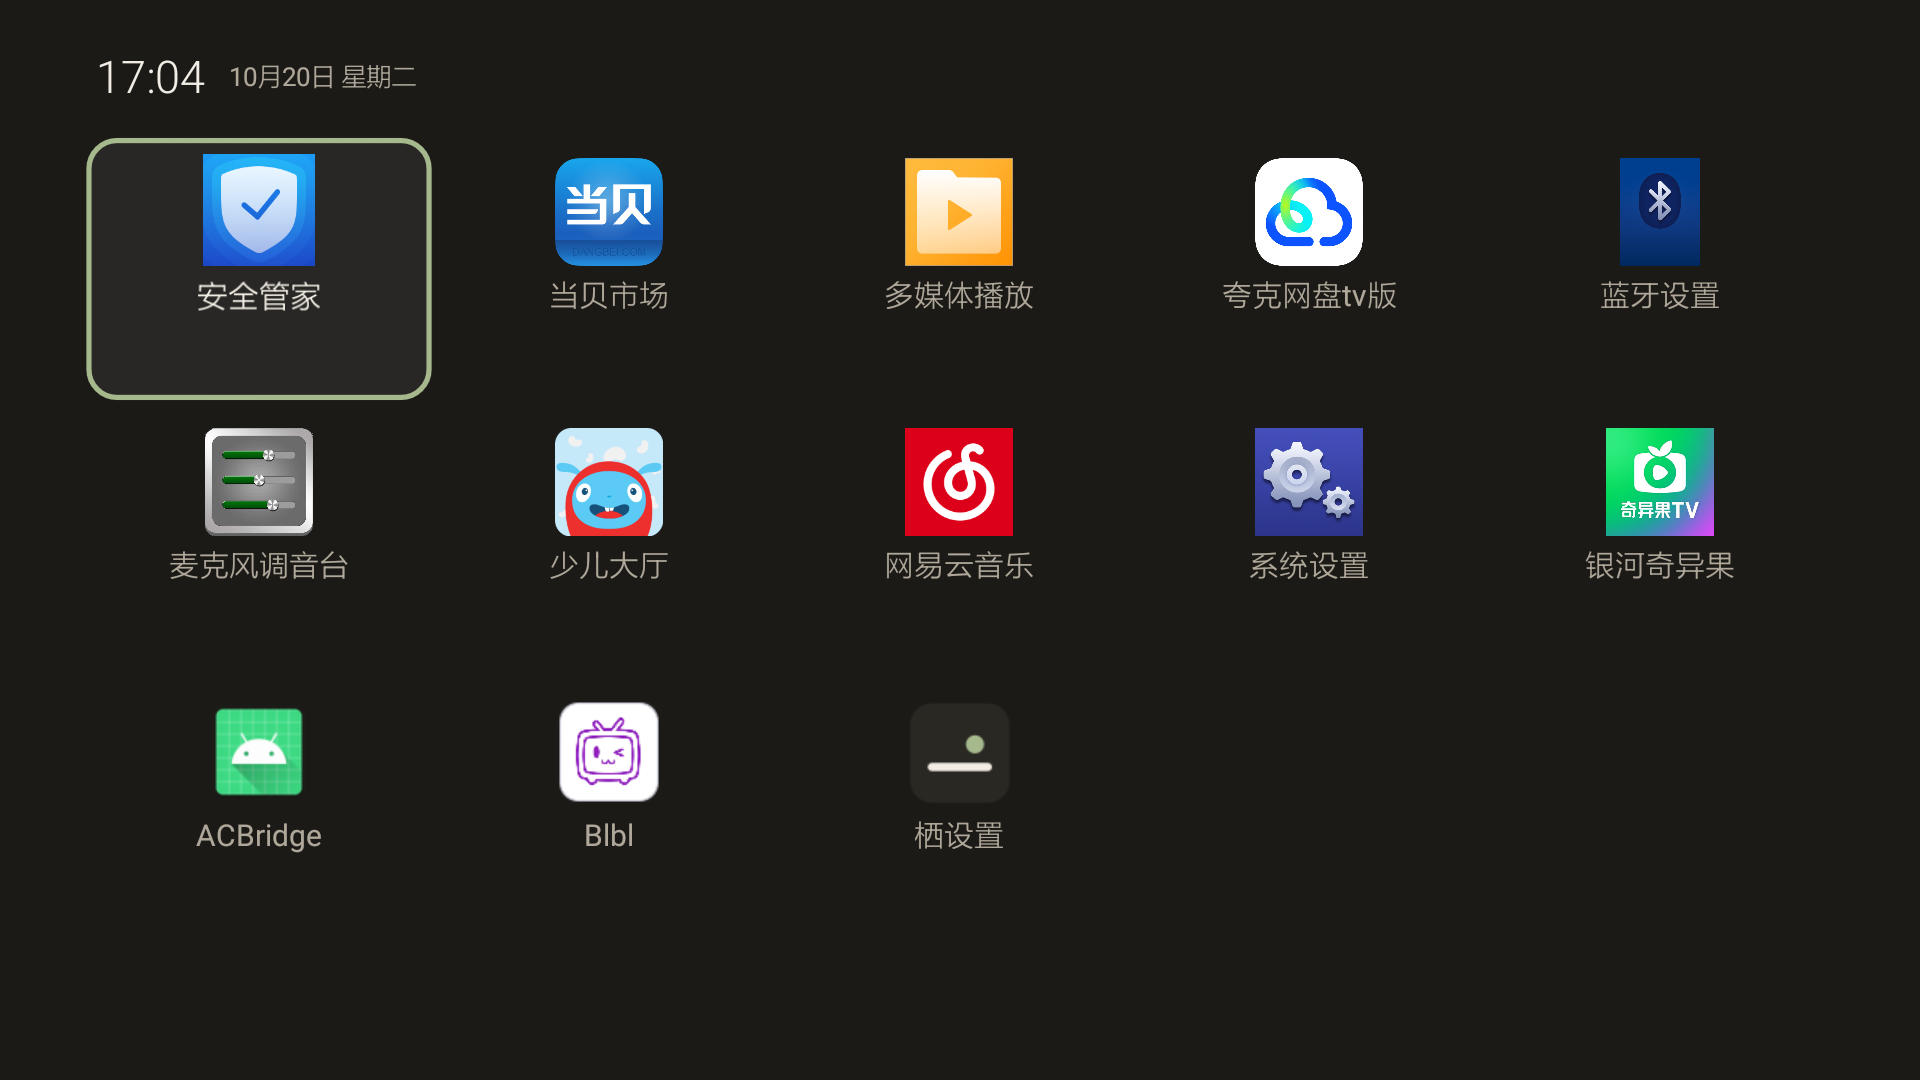
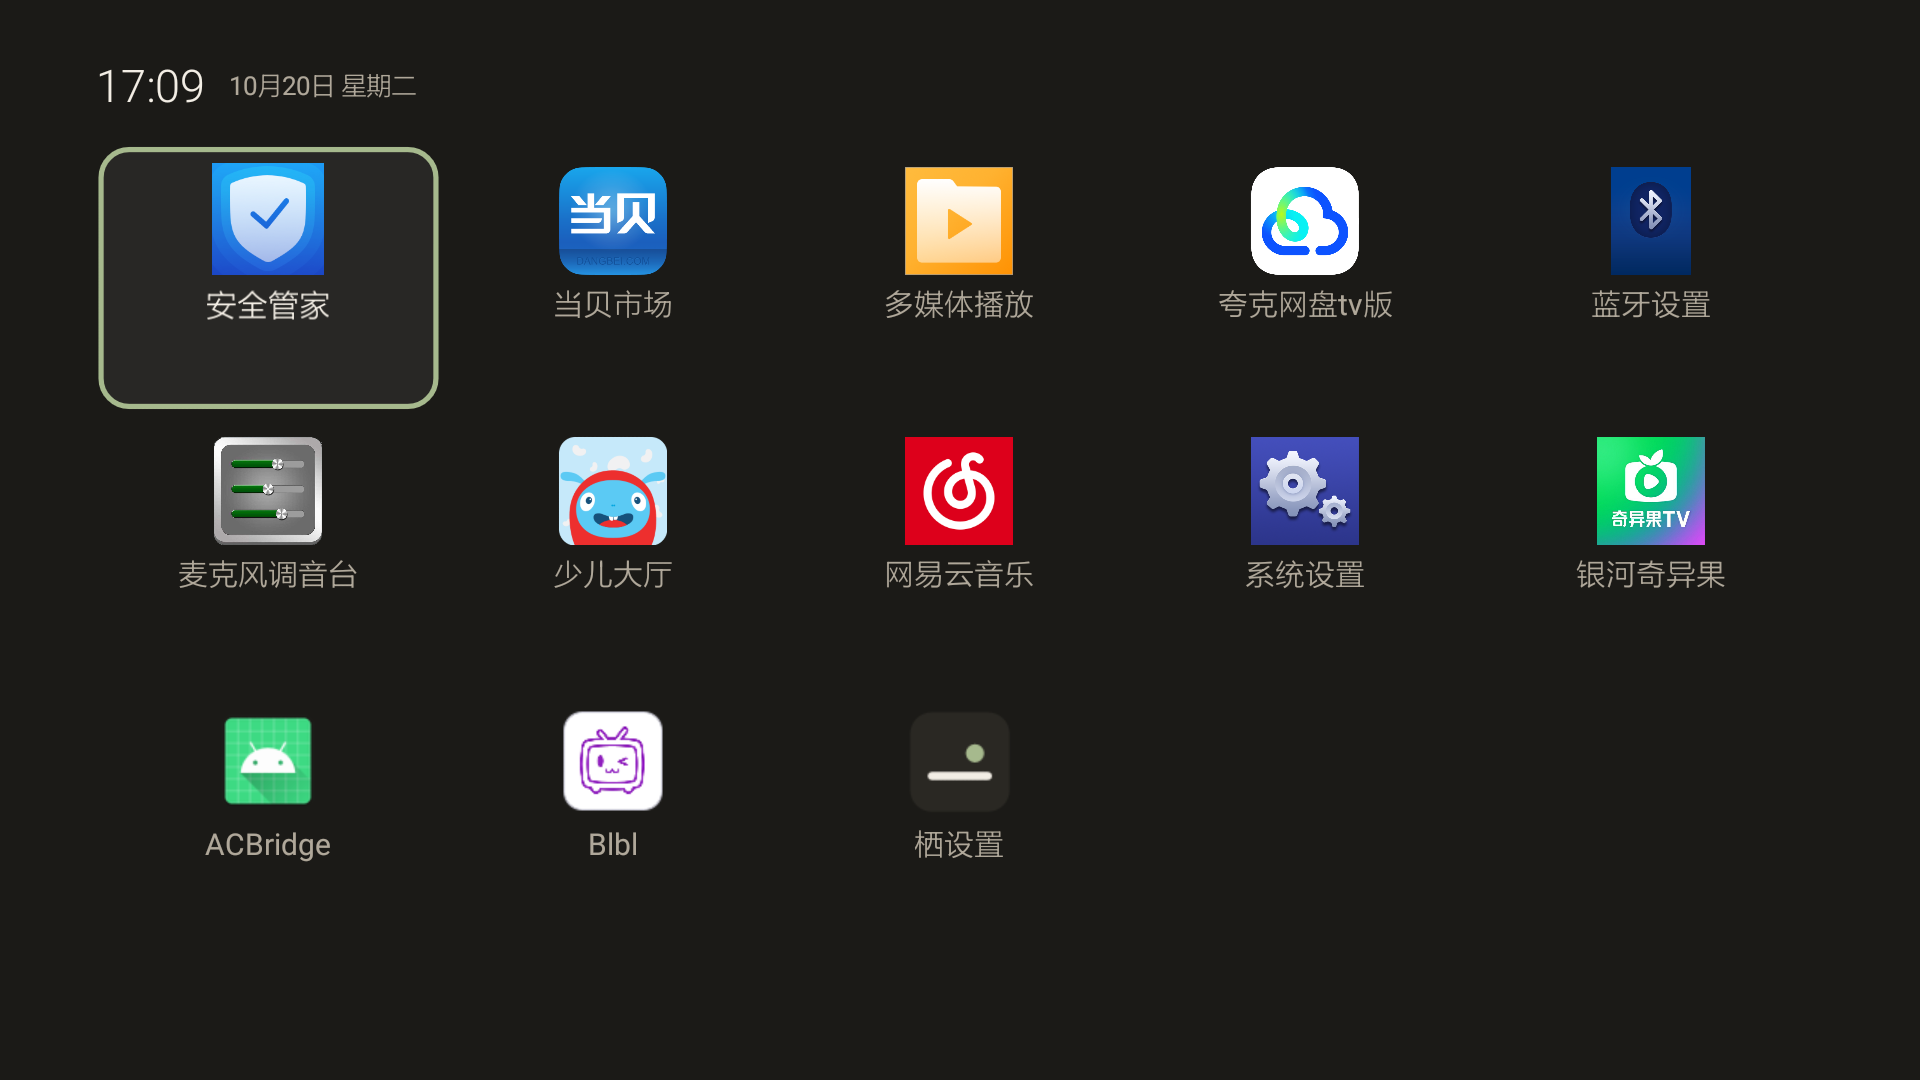
Keep the grid and quick settings inside the 5% safe area

diff --git a/src/io/github/duanechen520/perch/MainActivity.java b/src/io/github/duanechen520/perch/MainActivity.java
@@ -374,7 +374,7 @@ public class MainActivity extends Activity {
         LinearLayout topBar = new LinearLayout(this);
         topBar.setOrientation(LinearLayout.HORIZONTAL);
         topBar.setGravity(Gravity.CENTER_VERTICAL);
-        topBar.setPadding(dp(64), dp(34), dp(64), dp(4));
+        topBar.setPadding(dp(64), dp(40), dp(64), dp(4));
         fullLayer.addView(topBar, new LinearLayout.LayoutParams(
                 ViewGroup.LayoutParams.MATCH_PARENT,
                 ViewGroup.LayoutParams.WRAP_CONTENT));
@@ -419,7 +419,7 @@ public class MainActivity extends Activity {
 
         fullGrid = new LinearLayout(this);
         fullGrid.setOrientation(LinearLayout.VERTICAL);
-        fullGrid.setPadding(dp(56), dp(16), dp(56), dp(48));
+        fullGrid.setPadding(dp(64), dp(16), dp(64), dp(48));
         fullScroll.addView(fullGrid, new ScrollView.LayoutParams(
                 ViewGroup.LayoutParams.MATCH_PARENT,
                 ViewGroup.LayoutParams.WRAP_CONTENT));
@@ -430,7 +430,7 @@ public class MainActivity extends Activity {
         sheet.setOrientation(LinearLayout.HORIZONTAL);
         sheet.setGravity(Gravity.CENTER_VERTICAL);
         sheet.setBackgroundColor(color(R.color.sheet));
-        sheet.setPadding(dp(40), dp(40), dp(40), dp(20));
+        sheet.setPadding(dp(64), dp(40), dp(64), dp(20));
         sheet.setVisibility(View.GONE);
         root.addView(sheet, new FrameLayout.LayoutParams(
                 ViewGroup.LayoutParams.MATCH_PARENT,
